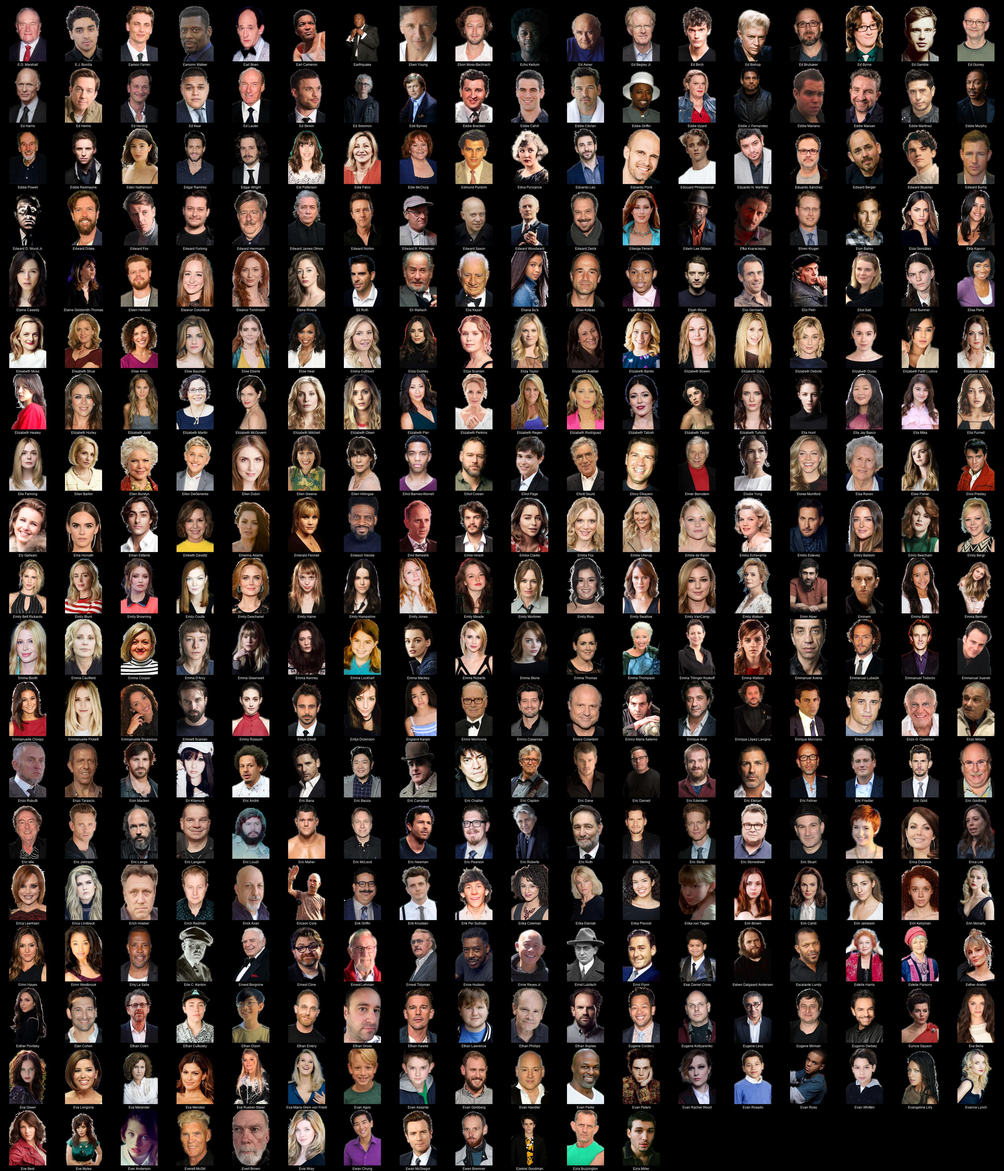
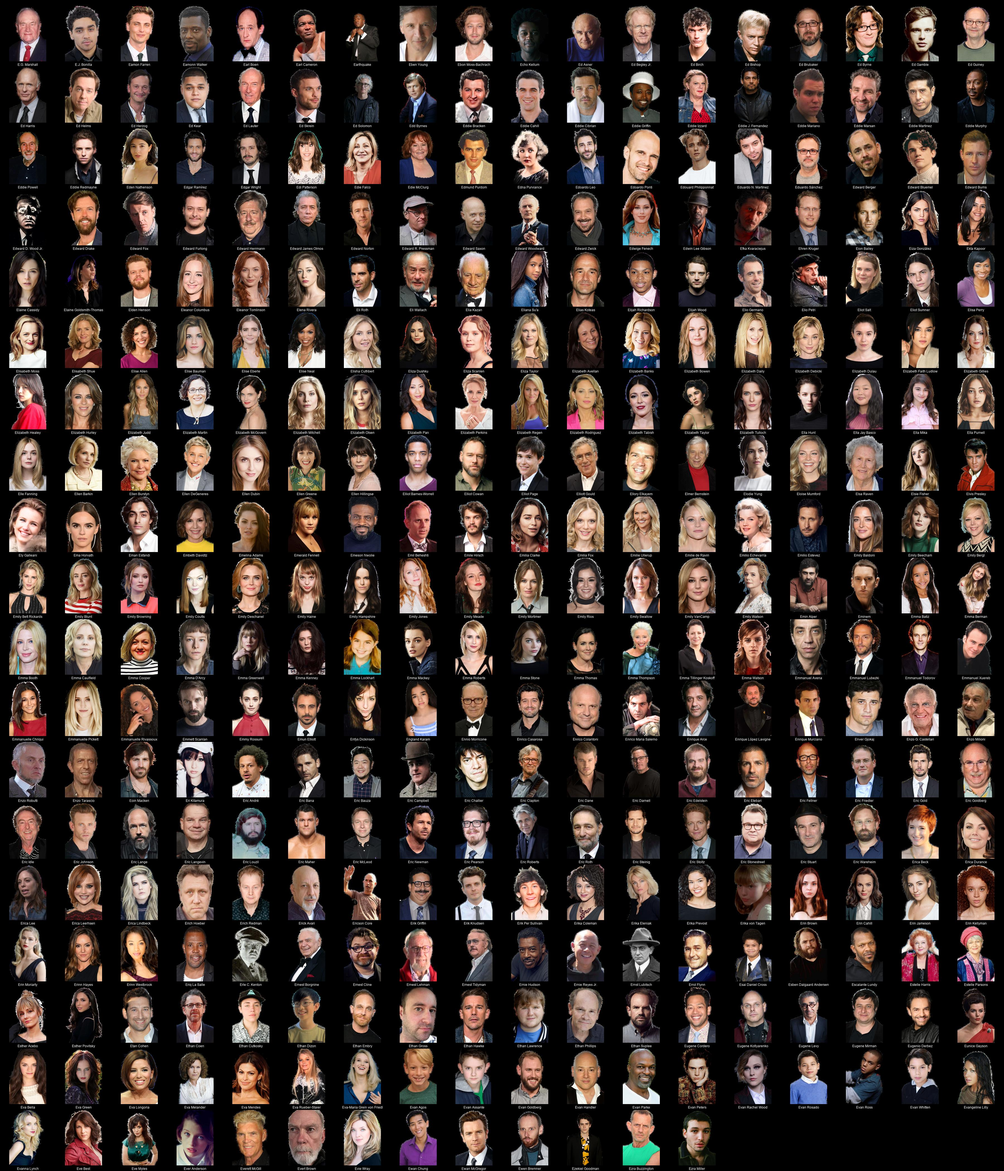
more peeps

Changed region(s): [[0.0, 0.6862, 0.9956, 1.0]]

diff --git a/README.md b/README.md
@@ -1,4 +1,4 @@
-# Kometa People Images - Transparent (transparent) (9532 Images)
+# Kometa People Images - Transparent (transparent) (9537 Images)
 
 <details><summary><a href="'">' (1 Images)</a></summary>
 
@@ -1264,7 +1264,7 @@
 * [Béla Tarr](https://raw.githubusercontent.com/Kometa-Team/People-Images-transparent/master/B/Images/B%C3%A9la%20Tarr.png)
 * [Bérénice Bejo](https://raw.githubusercontent.com/Kometa-Team/People-Images-transparent/master/B/Images/B%C3%A9r%C3%A9nice%20Bejo.png)
 </details>
-<details><summary><a href="C">C (615 Images)</a></summary>
+<details><summary><a href="C">C (617 Images)</a></summary>
 
 * [C. Robert Cargill](https://raw.githubusercontent.com/Kometa-Team/People-Images-transparent/master/C/Images/C.%20Robert%20Cargill.png)
 * [C. S. Forester](https://raw.githubusercontent.com/Kometa-Team/People-Images-transparent/master/C/Images/C.%20S.%20Forester.png)
@@ -1806,8 +1806,10 @@
 * [Colton Haynes](https://raw.githubusercontent.com/Kometa-Team/People-Images-transparent/master/C/Images/Colton%20Haynes.png)
 * [Common](https://raw.githubusercontent.com/Kometa-Team/People-Images-transparent/master/C/Images/Common.png)
 * [Con O'Neill](https://raw.githubusercontent.com/Kometa-Team/People-Images-transparent/master/C/Images/Con%20O%27Neill.png)
+* [Conan O'Brien](https://raw.githubusercontent.com/Kometa-Team/People-Images-transparent/master/C/Images/Conan%20O%27Brien.png)
 * [Conlan Casal](https://raw.githubusercontent.com/Kometa-Team/People-Images-transparent/master/C/Images/Conlan%20Casal.png)
 * [Conleth Hill](https://raw.githubusercontent.com/Kometa-Team/People-Images-transparent/master/C/Images/Conleth%20Hill.png)
+* [Conner O'Malley](https://raw.githubusercontent.com/Kometa-Team/People-Images-transparent/master/C/Images/Conner%20O%27Malley.png)
 * [Connie Booth](https://raw.githubusercontent.com/Kometa-Team/People-Images-transparent/master/C/Images/Connie%20Booth.png)
 * [Connie Chiume](https://raw.githubusercontent.com/Kometa-Team/People-Images-transparent/master/C/Images/Connie%20Chiume.png)
 * [Connie Mason](https://raw.githubusercontent.com/Kometa-Team/People-Images-transparent/master/C/Images/Connie%20Mason.png)
@@ -2501,7 +2503,7 @@
 * [Débora Nascimento](https://raw.githubusercontent.com/Kometa-Team/People-Images-transparent/master/D/Images/D%C3%A9bora%20Nascimento.png)
 * [Díana Bermudez](https://raw.githubusercontent.com/Kometa-Team/People-Images-transparent/master/D/Images/D%C3%ADana%20Bermudez.png)
 </details>
-<details><summary><a href="E">E (336 Images)</a></summary>
+<details><summary><a href="E">E (337 Images)</a></summary>
 
 * [E.G. Marshall](https://raw.githubusercontent.com/Kometa-Team/People-Images-transparent/master/E/Images/E.G.%20Marshall.png)
 * [E.J. Bonilla](https://raw.githubusercontent.com/Kometa-Team/People-Images-transparent/master/E/Images/E.J.%20Bonilla.png)
@@ -2752,6 +2754,7 @@
 * [Eric Stoltz](https://raw.githubusercontent.com/Kometa-Team/People-Images-transparent/master/E/Images/Eric%20Stoltz.png)
 * [Eric Stonestreet](https://raw.githubusercontent.com/Kometa-Team/People-Images-transparent/master/E/Images/Eric%20Stonestreet.png)
 * [Eric Stuart](https://raw.githubusercontent.com/Kometa-Team/People-Images-transparent/master/E/Images/Eric%20Stuart.png)
+* [Eric Wareheim](https://raw.githubusercontent.com/Kometa-Team/People-Images-transparent/master/E/Images/Eric%20Wareheim.png)
 * [Erica Beck](https://raw.githubusercontent.com/Kometa-Team/People-Images-transparent/master/E/Images/Erica%20Beck.png)
 * [Erica Durance](https://raw.githubusercontent.com/Kometa-Team/People-Images-transparent/master/E/Images/Erica%20Durance.png)
 * [Erica Lee](https://raw.githubusercontent.com/Kometa-Team/People-Images-transparent/master/E/Images/Erica%20Lee.png)
@@ -3689,7 +3692,7 @@
 * [Izaac Wang](https://raw.githubusercontent.com/Kometa-Team/People-Images-transparent/master/I/Images/Izaac%20Wang.png)
 * [Izabella Scorupco](https://raw.githubusercontent.com/Kometa-Team/People-Images-transparent/master/I/Images/Izabella%20Scorupco.png)
 </details>
-<details><summary><a href="J">J (1175 Images)</a></summary>
+<details><summary><a href="J">J (1176 Images)</a></summary>
 
 * [J'Dvonte](https://raw.githubusercontent.com/Kometa-Team/People-Images-transparent/master/J/Images/J%27Dvonte.png)
 * [J. A. Bayona](https://raw.githubusercontent.com/Kometa-Team/People-Images-transparent/master/J/Images/J.%20A.%20Bayona.png)
@@ -4176,6 +4179,7 @@
 * [Jerry Goldsmith](https://raw.githubusercontent.com/Kometa-Team/People-Images-transparent/master/J/Images/Jerry%20Goldsmith.png)
 * [Jerry Lee Lewis](https://raw.githubusercontent.com/Kometa-Team/People-Images-transparent/master/J/Images/Jerry%20Lee%20Lewis.png)
 * [Jerry Lewis](https://raw.githubusercontent.com/Kometa-Team/People-Images-transparent/master/J/Images/Jerry%20Lewis.png)
+* [Jerry Minor](https://raw.githubusercontent.com/Kometa-Team/People-Images-transparent/master/J/Images/Jerry%20Minor.png)
 * [Jerry Nelson](https://raw.githubusercontent.com/Kometa-Team/People-Images-transparent/master/J/Images/Jerry%20Nelson.png)
 * [Jerry O'Connell](https://raw.githubusercontent.com/Kometa-Team/People-Images-transparent/master/J/Images/Jerry%20O%27Connell.png)
 * [Jerry Seinfeld](https://raw.githubusercontent.com/Kometa-Team/People-Images-transparent/master/J/Images/Jerry%20Seinfeld.png)
@@ -5339,7 +5343,7 @@
 * [Kyung Soo-jin](https://raw.githubusercontent.com/Kometa-Team/People-Images-transparent/master/K/Images/Kyung%20Soo-jin.png)
 * [Kō Nakahira](https://raw.githubusercontent.com/Kometa-Team/People-Images-transparent/master/K/Images/K%C5%8D%20Nakahira.png)
 </details>
-<details><summary><a href="L">L (410 Images)</a></summary>
+<details><summary><a href="L">L (411 Images)</a></summary>
 
 * [L. Q. Jones](https://raw.githubusercontent.com/Kometa-Team/People-Images-transparent/master/L/Images/L.%20Q.%20Jones.png)
 * [LL Cool J](https://raw.githubusercontent.com/Kometa-Team/People-Images-transparent/master/L/Images/LL%20Cool%20J.png)
@@ -5384,6 +5388,7 @@
 * [Larry Lieber](https://raw.githubusercontent.com/Kometa-Team/People-Images-transparent/master/L/Images/Larry%20Lieber.png)
 * [Larry Miller](https://raw.githubusercontent.com/Kometa-Team/People-Images-transparent/master/L/Images/Larry%20Miller.png)
 * [Larry Mitchell](https://raw.githubusercontent.com/Kometa-Team/People-Images-transparent/master/L/Images/Larry%20Mitchell.png)
+* [Larry Murphy](https://raw.githubusercontent.com/Kometa-Team/People-Images-transparent/master/L/Images/Larry%20Murphy.png)
 * [Larry Storch](https://raw.githubusercontent.com/Kometa-Team/People-Images-transparent/master/L/Images/Larry%20Storch.png)
 * [Larry Wilson](https://raw.githubusercontent.com/Kometa-Team/People-Images-transparent/master/L/Images/Larry%20Wilson.png)
 * [Larry the Cable Guy](https://raw.githubusercontent.com/Kometa-Team/People-Images-transparent/master/L/Images/Larry%20the%20Cable%20Guy.png)

diff --git a/C/README.md b/C/README.md
@@ -1,4 +1,4 @@
-# Kometa People Images - Transparent (transparent) - C (615 Images)
+# Kometa People Images - Transparent (transparent) - C (617 Images)
 ![Grid](grid.jpg)
 
 * [C. Robert Cargill](https://raw.githubusercontent.com/Kometa-Team/People-Images-transparent/master/C/Images/C.%20Robert%20Cargill.png)
@@ -541,8 +541,10 @@
 * [Colton Haynes](https://raw.githubusercontent.com/Kometa-Team/People-Images-transparent/master/C/Images/Colton%20Haynes.png)
 * [Common](https://raw.githubusercontent.com/Kometa-Team/People-Images-transparent/master/C/Images/Common.png)
 * [Con O'Neill](https://raw.githubusercontent.com/Kometa-Team/People-Images-transparent/master/C/Images/Con%20O%27Neill.png)
+* [Conan O'Brien](https://raw.githubusercontent.com/Kometa-Team/People-Images-transparent/master/C/Images/Conan%20O%27Brien.png)
 * [Conlan Casal](https://raw.githubusercontent.com/Kometa-Team/People-Images-transparent/master/C/Images/Conlan%20Casal.png)
 * [Conleth Hill](https://raw.githubusercontent.com/Kometa-Team/People-Images-transparent/master/C/Images/Conleth%20Hill.png)
+* [Conner O'Malley](https://raw.githubusercontent.com/Kometa-Team/People-Images-transparent/master/C/Images/Conner%20O%27Malley.png)
 * [Connie Booth](https://raw.githubusercontent.com/Kometa-Team/People-Images-transparent/master/C/Images/Connie%20Booth.png)
 * [Connie Chiume](https://raw.githubusercontent.com/Kometa-Team/People-Images-transparent/master/C/Images/Connie%20Chiume.png)
 * [Connie Mason](https://raw.githubusercontent.com/Kometa-Team/People-Images-transparent/master/C/Images/Connie%20Mason.png)

diff --git a/L/README.md b/L/README.md
@@ -1,4 +1,4 @@
-# Kometa People Images - Transparent (transparent) - L (410 Images)
+# Kometa People Images - Transparent (transparent) - L (411 Images)
 ![Grid](grid.jpg)
 
 * [L. Q. Jones](https://raw.githubusercontent.com/Kometa-Team/People-Images-transparent/master/L/Images/L.%20Q.%20Jones.png)
@@ -44,6 +44,7 @@
 * [Larry Lieber](https://raw.githubusercontent.com/Kometa-Team/People-Images-transparent/master/L/Images/Larry%20Lieber.png)
 * [Larry Miller](https://raw.githubusercontent.com/Kometa-Team/People-Images-transparent/master/L/Images/Larry%20Miller.png)
 * [Larry Mitchell](https://raw.githubusercontent.com/Kometa-Team/People-Images-transparent/master/L/Images/Larry%20Mitchell.png)
+* [Larry Murphy](https://raw.githubusercontent.com/Kometa-Team/People-Images-transparent/master/L/Images/Larry%20Murphy.png)
 * [Larry Storch](https://raw.githubusercontent.com/Kometa-Team/People-Images-transparent/master/L/Images/Larry%20Storch.png)
 * [Larry Wilson](https://raw.githubusercontent.com/Kometa-Team/People-Images-transparent/master/L/Images/Larry%20Wilson.png)
 * [Larry the Cable Guy](https://raw.githubusercontent.com/Kometa-Team/People-Images-transparent/master/L/Images/Larry%20the%20Cable%20Guy.png)

diff --git a/J/README.md b/J/README.md
@@ -1,4 +1,4 @@
-# Kometa People Images - Transparent (transparent) - J (1175 Images)
+# Kometa People Images - Transparent (transparent) - J (1176 Images)
 ![Grid](grid.jpg)
 
 * [J'Dvonte](https://raw.githubusercontent.com/Kometa-Team/People-Images-transparent/master/J/Images/J%27Dvonte.png)
@@ -486,6 +486,7 @@
 * [Jerry Goldsmith](https://raw.githubusercontent.com/Kometa-Team/People-Images-transparent/master/J/Images/Jerry%20Goldsmith.png)
 * [Jerry Lee Lewis](https://raw.githubusercontent.com/Kometa-Team/People-Images-transparent/master/J/Images/Jerry%20Lee%20Lewis.png)
 * [Jerry Lewis](https://raw.githubusercontent.com/Kometa-Team/People-Images-transparent/master/J/Images/Jerry%20Lewis.png)
+* [Jerry Minor](https://raw.githubusercontent.com/Kometa-Team/People-Images-transparent/master/J/Images/Jerry%20Minor.png)
 * [Jerry Nelson](https://raw.githubusercontent.com/Kometa-Team/People-Images-transparent/master/J/Images/Jerry%20Nelson.png)
 * [Jerry O'Connell](https://raw.githubusercontent.com/Kometa-Team/People-Images-transparent/master/J/Images/Jerry%20O%27Connell.png)
 * [Jerry Seinfeld](https://raw.githubusercontent.com/Kometa-Team/People-Images-transparent/master/J/Images/Jerry%20Seinfeld.png)

diff --git a/E/README.md b/E/README.md
@@ -1,4 +1,4 @@
-# Kometa People Images - Transparent (transparent) - E (336 Images)
+# Kometa People Images - Transparent (transparent) - E (337 Images)
 ![Grid](grid.jpg)
 
 * [E.G. Marshall](https://raw.githubusercontent.com/Kometa-Team/People-Images-transparent/master/E/Images/E.G.%20Marshall.png)
@@ -250,6 +250,7 @@
 * [Eric Stoltz](https://raw.githubusercontent.com/Kometa-Team/People-Images-transparent/master/E/Images/Eric%20Stoltz.png)
 * [Eric Stonestreet](https://raw.githubusercontent.com/Kometa-Team/People-Images-transparent/master/E/Images/Eric%20Stonestreet.png)
 * [Eric Stuart](https://raw.githubusercontent.com/Kometa-Team/People-Images-transparent/master/E/Images/Eric%20Stuart.png)
+* [Eric Wareheim](https://raw.githubusercontent.com/Kometa-Team/People-Images-transparent/master/E/Images/Eric%20Wareheim.png)
 * [Erica Beck](https://raw.githubusercontent.com/Kometa-Team/People-Images-transparent/master/E/Images/Erica%20Beck.png)
 * [Erica Durance](https://raw.githubusercontent.com/Kometa-Team/People-Images-transparent/master/E/Images/Erica%20Durance.png)
 * [Erica Lee](https://raw.githubusercontent.com/Kometa-Team/People-Images-transparent/master/E/Images/Erica%20Lee.png)
